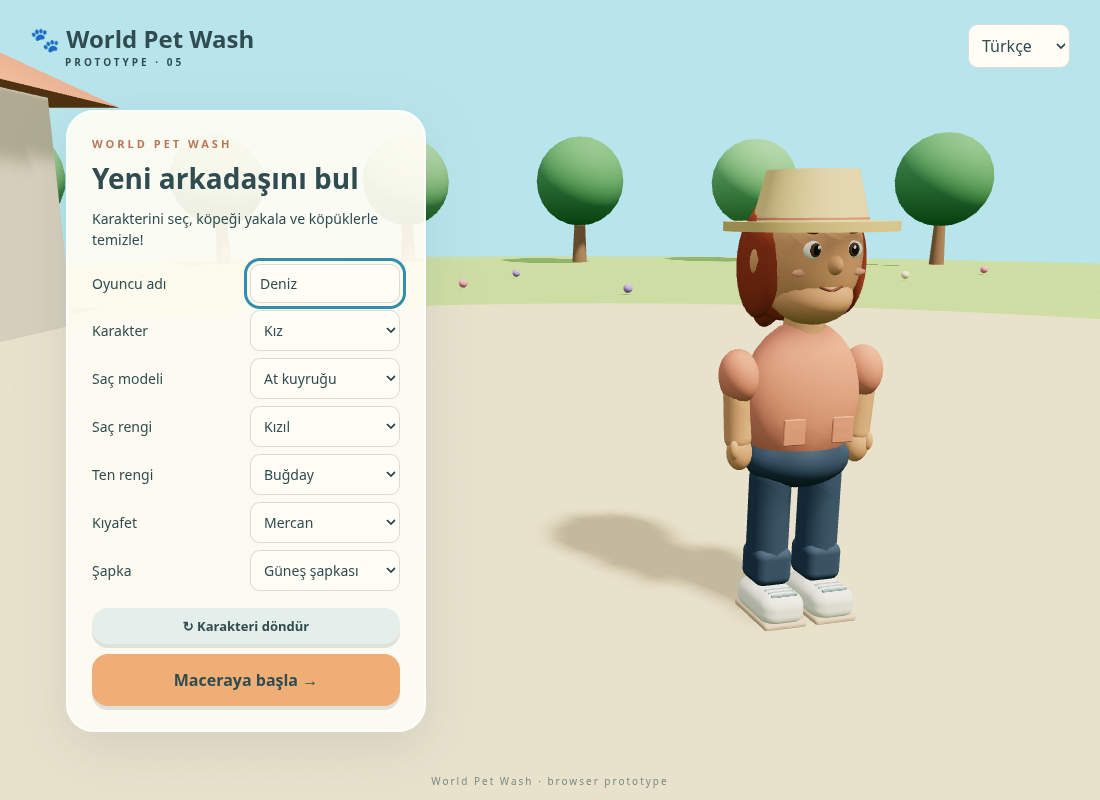
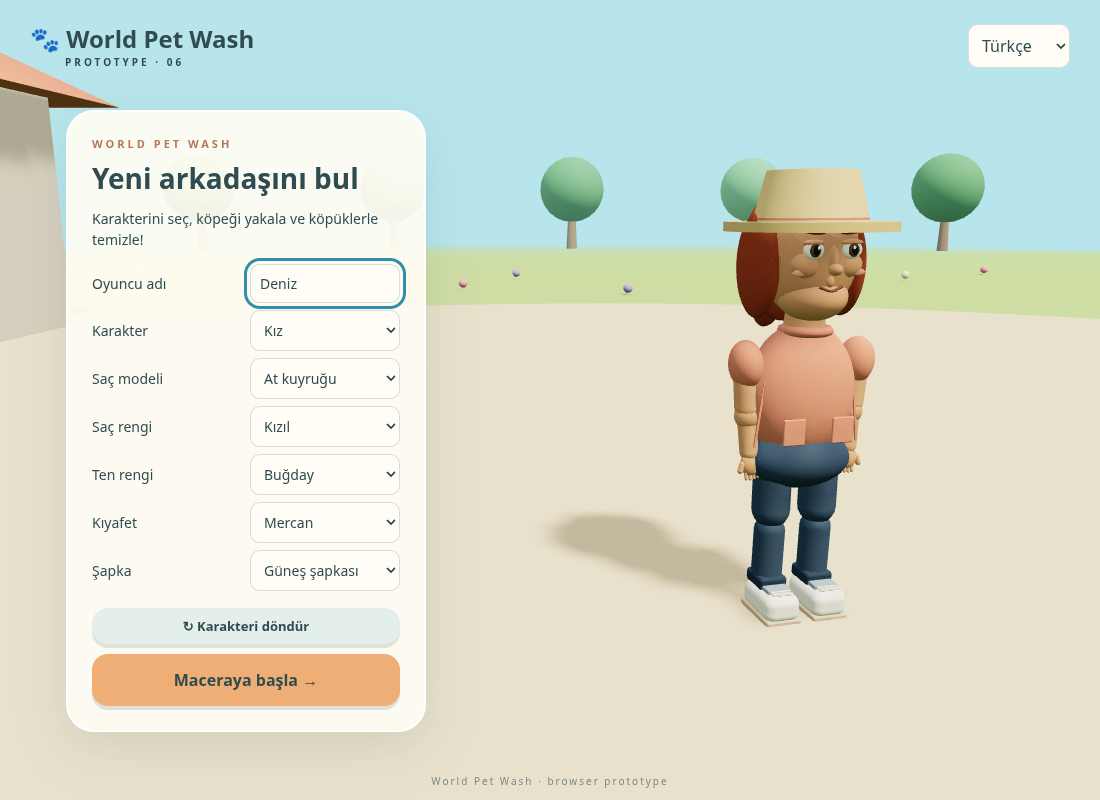
Refine owner proportions, facial detail, textures and joint animation

diff --git a/src/character.js b/src/character.js
@@ -3,47 +3,75 @@ import { RoundedBoxGeometry } from 'three/addons/geometries/RoundedBoxGeometry.j
 export const HAIR_COLORS = { brown:'#61402b', black:'#25232b', blonde:'#cda354', ginger:'#a55232', chestnut:'#8b593b' };
 export const SKIN_COLORS = { light:'#f0c4a5', warm:'#d9a178', tan:'#ae7957', deep:'#744d39' };
 export const OUTFIT_COLORS = { coral:'#dd8e78', blue:'#6e9abd', lavender:'#9c8cb9', mint:'#70a99c' };
+function surfaceTexture(kind) {
+  const canvas=document.createElement('canvas');canvas.width=canvas.height=128;
+  const ctx=canvas.getContext('2d');ctx.fillStyle='#808080';ctx.fillRect(0,0,128,128);
+  for(let y=0;y<128;y++)for(let x=0;x<128;x++){
+    const grain=kind==='hair'?Math.sin(x*.9+y*.06)*26:kind==='fabric'?((x%4===0||y%4===0)?22:-8):Math.sin(x*17+y*31)*7;
+    const value=Math.round(128+grain);ctx.fillStyle=`rgb(${value},${value},${value})`;ctx.fillRect(x,y,1,1);
+  }
+  const texture=new THREE.CanvasTexture(canvas);texture.wrapS=texture.wrapT=THREE.RepeatWrapping;
+  texture.repeat.set(kind==='fabric'?3:1,kind==='fabric'?3:1);return texture;
+}
 export function createCharacter() {
   const root = new THREE.Group(); root.name='Pet owner';
-  const surfaces={skin:new THREE.MeshStandardMaterial({color:SKIN_COLORS.light,roughness:.85}),hair:new THREE.MeshStandardMaterial({color:HAIR_COLORS.brown,roughness:.85}),shirt:new THREE.MeshStandardMaterial({color:OUTFIT_COLORS.coral,roughness:.9})};
-  const sphere=new THREE.SphereGeometry(1,20,14);
+  const surfaces={skin:new THREE.MeshStandardMaterial({color:SKIN_COLORS.light,roughness:.65,bumpMap:surfaceTexture('skin'),bumpScale:.008}),hair:new THREE.MeshStandardMaterial({color:HAIR_COLORS.brown,roughness:.65,bumpMap:surfaceTexture('hair'),bumpScale:.012}),shirt:new THREE.MeshStandardMaterial({color:OUTFIT_COLORS.coral,roughness:.9,bumpMap:surfaceTexture('fabric'),bumpScale:.012})};
+  const sphere=new THREE.SphereGeometry(1,28,20);
   const materials=new Map();
   const mat=color=>{if(!materials.has(color))materials.set(color,new THREE.MeshStandardMaterial({color,roughness:.7}));return materials.get(color);};
   function part(parent,geo,surface,pos,scale=[1,1,1]) {const m=new THREE.Mesh(geo,typeof surface==='string'?mat(surface):surface);m.position.set(...pos);m.scale.set(...scale);m.castShadow=true;m.receiveShadow=true;parent.add(m);return m;}
   const oval=(parent,surface,pos,scale)=>part(parent,sphere,surface,pos,scale);
   const soft=(parent,size,surface,pos,r=.06)=>part(parent,new RoundedBoxGeometry(...size,3,r),surface,pos);
   const rig=new THREE.Group();root.add(rig);
-  oval(rig,surfaces.shirt,[0,1.14,0],[.31,.39,.2]);
+  oval(rig,surfaces.shirt,[0,1.17,0],[.285,.35,.18]);
+  const collar=part(rig,new THREE.TorusGeometry(.11,.025,8,24),surfaces.shirt,[0,1.48,.012]);collar.rotation.x=Math.PI/2;
+  for(const side of [-1,1]){const seam=soft(rig,[.012,.32,.012],surfaces.shirt,[side*.26,1.08,.08],.003);seam.rotation.z=side*.12;}
   oval(rig,'#40566e',[0,.83,0],[.28,.15,.18]);
   part(rig,new THREE.CylinderGeometry(.09,.11,.18,14),surfaces.skin,[0,1.52,0]);
   const head=new THREE.Group();head.position.y=1.85;rig.add(head);
-  oval(head,surfaces.skin,[0,0,0],[.265,.335,.245]);
-  oval(head,surfaces.skin,[0,-.2,.055],[.2,.14,.18]);
+  oval(head,surfaces.skin,[0,0,0],[.245,.31,.225]);
+  oval(head,surfaces.skin,[0,-.2,.055],[.175,.12,.165]);
+  const eyeLids=[];
   for(const side of [-1,1]) {
-    oval(head,surfaces.skin,[side*.266,-.035,0],[.047,.088,.052]);
+    oval(head,surfaces.skin,[side*.245,-.035,0],[.045,.075,.05]);
+    oval(head,surfaces.skin,[side*.105,-.045,.17],[.084,.062,.046]);
+    oval(head,surfaces.skin,[side*.252,-.035,.017],[.018,.046,.017]);
     oval(head,'#f5eee5',[side*.102,.025,.216],[.054,.042,.02]);
     oval(head,'#6d5741',[side*.102,.025,.232],[.029,.032,.012]);
     oval(head,'#252a2b',[side*.102,.025,.242],[.017,.023,.008]);
     oval(head,'#ffffff',[side*.094,.037,.25],[.008,.009,.004]);
+    const lid=oval(head,surfaces.skin,[side*.102,.059,.216],[.058,.015,.018]);eyeLids.push(lid);
     const brow=oval(head,surfaces.hair,[side*.102,.11,.208],[.064,.014,.014]);brow.rotation.z=side*.1;
     oval(head,'#da9b87',[side*.158,-.08,.193],[.038,.017,.008]);
   }
-  oval(head,surfaces.skin,[0,-.045,.242],[.035,.045,.045]);
+  oval(head,surfaces.skin,[0,-.019,.219],[.023,.066,.033]);
+  oval(head,surfaces.skin,[0,-.063,.248],[.033,.028,.036]);
+  for(const side of [-1,1])oval(head,'#a67460',[side*.023,-.079,.246],[.007,.004,.005]);
+  oval(head,surfaces.skin,[0,-.12,.208],[.022,.027,.017]);
   const smileCurve=new THREE.CatmullRomCurve3([new THREE.Vector3(-.062,-.144,.212),new THREE.Vector3(0,-.163,.224),new THREE.Vector3(.062,-.144,.212)]);
   part(head,new THREE.TubeGeometry(smileCurve,12,.007,6,false),'#925b4f',[0,0,0]);
-  const arms=[],legs=[];
+  const arms=[],legs=[],elbows=[],knees=[];
   for(const side of [-1,1]) {
-    const arm=new THREE.Group();arm.position.set(side*.32,1.36,0);arm.rotation.z=-side*.06;rig.add(arm);arms.push(arm);
-    oval(arm,surfaces.shirt,[side*.025,-.1,0],[.095,.135,.115]);
-    part(arm,new THREE.CapsuleGeometry(.067,.24,5,12),surfaces.skin,[side*.035,-.29,0]);
-    oval(arm,surfaces.skin,[side*.035,-.48,.015],[.065,.09,.055]);
-    oval(arm,surfaces.skin,[side*.078,-.455,.048],[.025,.048,.025]);
-    const leg=new THREE.Group();leg.position.set(side*.14,.83,0);rig.add(leg);legs.push(leg);
-    part(leg,new THREE.CapsuleGeometry(.105,.39,5,12),'#40566e',[0,-.29,0]);
-    soft(leg,[.2,.2,.21],'#40566e',[0,-.55,.005],.05);
-    soft(leg,[.235,.17,.36],'#f5f2e7',[0,-.73,.06],.07);
-    soft(leg,[.23,.04,.35],'#d8bca2',[0,-.803,.065],.018);
-    for(let i=0;i<3;i++)soft(leg,[.14,.012,.014],'#93aab4',[0,-.65,.13+i*.035],.004);
+    const arm=new THREE.Group();arm.position.set(side*.29,1.4,0);arm.rotation.z=-side*.08;rig.add(arm);arms.push(arm);
+    oval(arm,surfaces.shirt,[side*.02,-.08,0],[.083,.12,.098]);
+    part(arm,new THREE.CapsuleGeometry(.059,.13,5,12),surfaces.skin,[side*.025,-.23,0]);
+    const elbow=new THREE.Group();elbow.position.set(side*.025,-.34,0);arm.add(elbow);elbows.push(elbow);
+    oval(elbow,surfaces.skin,[0,0,0],[.061,.065,.061]);
+    part(elbow,new THREE.CapsuleGeometry(.047,.14,5,12),surfaces.skin,[0,-.11,0]);
+    oval(elbow,surfaces.skin,[0,-.24,.008],[.052,.06,.037]);
+    for(let finger=0;finger<4;finger++){
+      const digit=part(elbow,new THREE.CapsuleGeometry(.009,.033-Math.abs(finger-1.5)*.006,3,6),surfaces.skin,[(finger-1.5)*.021,-.297,.015]);digit.rotation.x=-.12;
+    }
+    const thumb=part(elbow,new THREE.CapsuleGeometry(.015,.033,3,8),surfaces.skin,[side*.055,-.25,.018]);thumb.rotation.z=side*.4;
+    const leg=new THREE.Group();leg.position.set(side*.13,.83,0);rig.add(leg);legs.push(leg);
+    part(leg,new THREE.CapsuleGeometry(.096,.19,5,12),'#40566e',[0,-.17,0]);
+    const knee=new THREE.Group();knee.position.y=-.35;leg.add(knee);knees.push(knee);
+    part(knee,new THREE.CapsuleGeometry(.078,.23,5,12),'#40566e',[0,-.14,0]);
+    soft(knee,[.15,.07,.17],'#33475d',[0,-.29,.005],.02);
+    soft(knee,[.19,.14,.3],'#f5f2e7',[0,-.38,.07],.05);
+    soft(knee,[.19,.035,.3],'#d8bca2',[0,-.447,.07],.012);
+    soft(knee,[.13,.025,.12],'#93aab4',[0,-.303,.09],.008);
+    for(let i=0;i<3;i++)soft(knee,[.11,.012,.012],'#f5eee5',[0,-.3,.13+i*.027],.003);
   }
   // Build all variants once; selection changes visibility and material colors only.
   const hairGroups={};
@@ -92,11 +120,20 @@ export function createCharacter() {
     head.scale.set(next.gender==='girl'?.97:1,1,1);
   }
   function animate(time,running=false,pose=null){
-    for(let i=0;i<2;i++){const stride=running?Math.sin(time*11+i*Math.PI):0;legs[i].rotation.x=stride*.5;arms[i].rotation.x=-stride*.5;}
-    if(pose)for(const arm of arms)arm.rotation.x=pose==='hold'?-1.35:-2;
-    rig.position.y=running?Math.abs(Math.sin(time*11))*.04:Math.sin(time*2)*.008;
-    head.rotation.z=running?0:Math.sin(time*.9)*.018;
-    hairGroups.ponytail.rotation.x=running?Math.sin(time*11)*.04:0;
+    const blink=(time%4.8)>4.65;
+    for(let i=0;i<2;i++){
+      const stride=running?Math.sin(time*10+i*Math.PI):0;
+      legs[i].rotation.x=stride*.48;knees[i].rotation.x=running?Math.max(0,-stride)*.85:.04;
+      arms[i].rotation.x=-stride*.4;elbows[i].rotation.x=running?-.45-Math.max(0,stride)*.2:-.08;
+      arms[i].rotation.z=(i===0?1:-1)*.08;
+      if(pose){arms[i].rotation.x=pose==='hold'?-1.05:-2;elbows[i].rotation.x=pose==='hold'?-.9:-.25;arms[i].rotation.z=(i===0?1:-1)*(pose==='hold'?-.18:.12);}
+      eyeLids[i].scale.y=blink?.045:.015;
+    }
+    rig.position.y=running?Math.abs(Math.sin(time*10))*.035:Math.sin(time*2)*.006;
+    rig.rotation.y=running?Math.sin(time*10)*.045:0;
+    rig.rotation.x=running?.055:0;
+    head.rotation.z=running?Math.sin(time*10)*.012:Math.sin(time*.9)*.015;
+    hairGroups.ponytail.rotation.x=running?Math.sin(time*10)*.07:Math.sin(time*2)*.012;
   }
   return {root,configure,animate};
 }

diff --git a/README.md b/README.md
@@ -42,3 +42,5 @@ Fön ısısı kırmızı alana (>65) girer girmez köpek patisiyle fönü iter v
 Soru ekranında cüzdan üstte, ürün fiyatı altta vurgulanır. Yanlış cevap kırmızı mesaj ve kısa titreme gösterir; doğru cevap yeşil mesaj ve yıldız efektiyle 550 ms sonra işlemi otomatik tamamlar. Hareket azaltma tercihi CSS efektlerini kapatır.
 
 Park çapı 108 birimdir. Köpeğe yaklaşınca Yakala/Space zıplamayı başlatır. Çocuk havada dururken köpeğin üzerindeki hedef halkası yeşil olduğunda fareyle tıklayın veya telefonda dokunun (Space de desteklenir). Erken/geç tıklama, hedef dışına basma veya bekleme köpeğin kaçmasına neden olur. Başarılı yakalamada karakter köpeği kucağına alır ve bakım odasına geçer. Duraklatma yakalama süresini de durdurur.
+
+Karakterin güncel sürümü daha doğal baş/gövde oranları, parmaklar, bükülen dirsek ve dizler, göz kapağı hareketi, kumaş/saç/yüz için yerel üretilmiş hafif bump dokuları kullanır. Koşma ve kucaklama pozları eklem gruplarıyla hareket eder. Bu hâlâ prosedürel Three.js modelidir; Blender/GLB varlığı eklenmemiştir. Saç, şapka, ten ve kıyafet seçenekleri korunmuştur.
